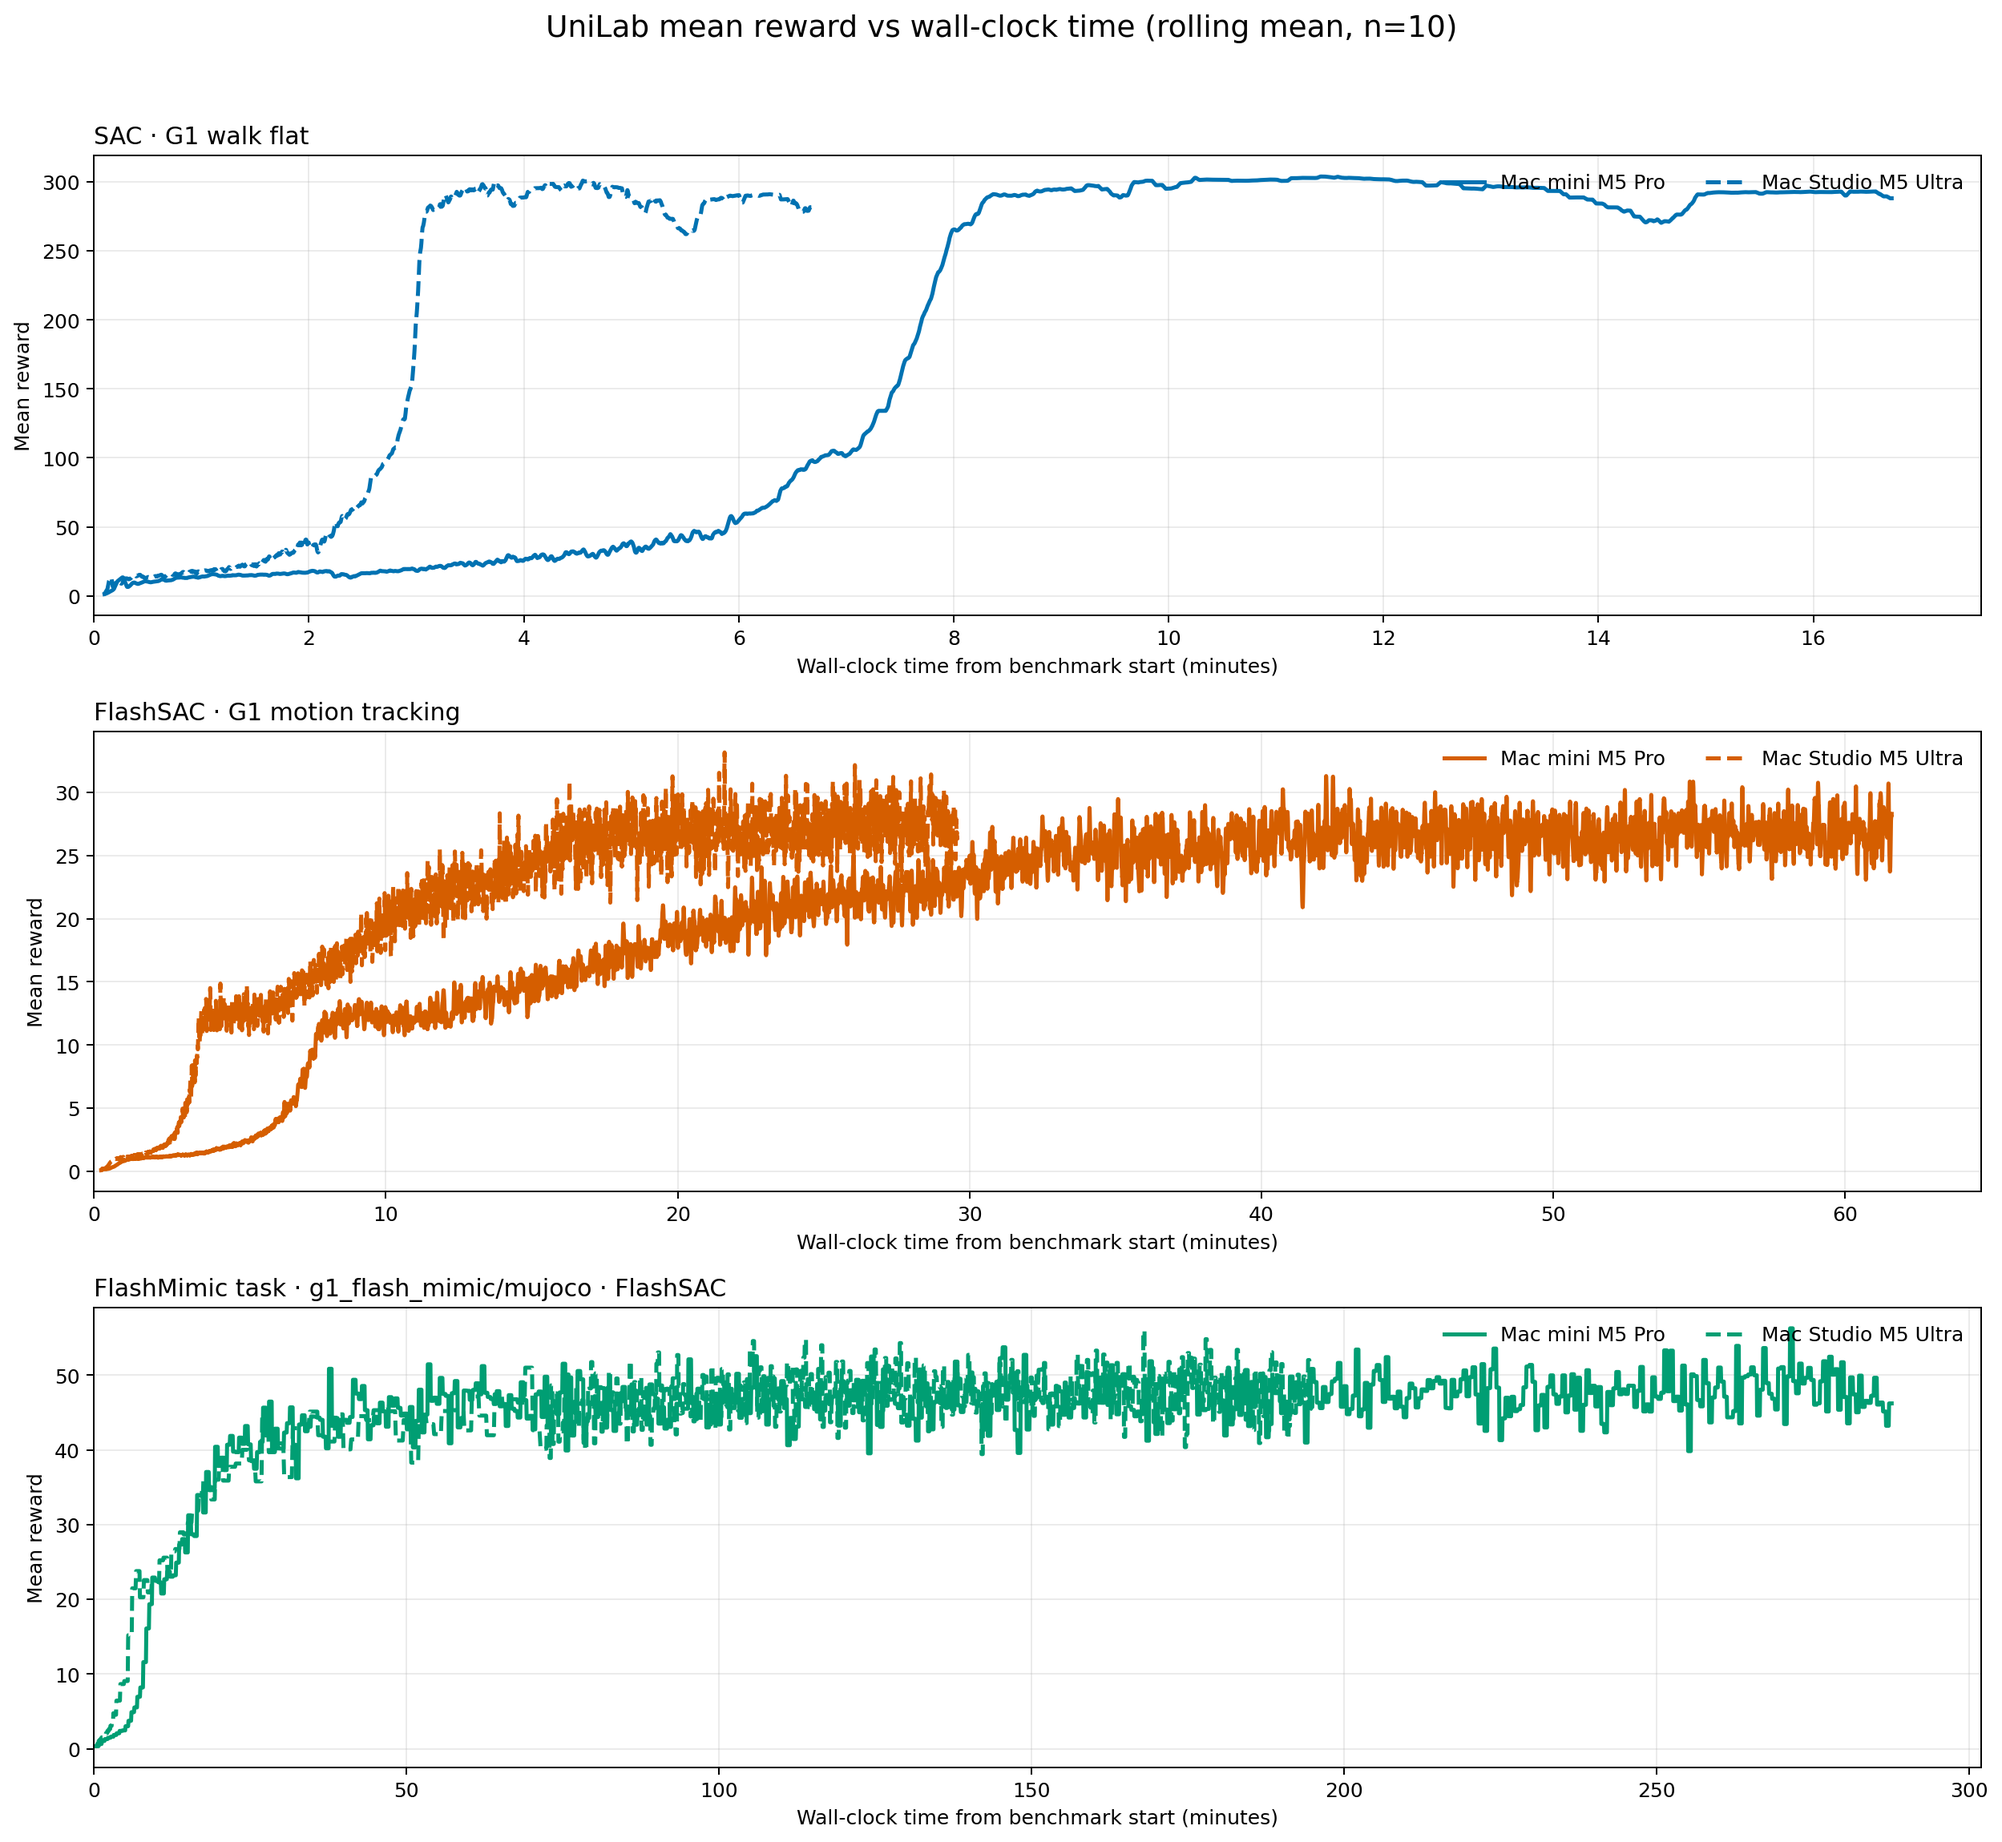
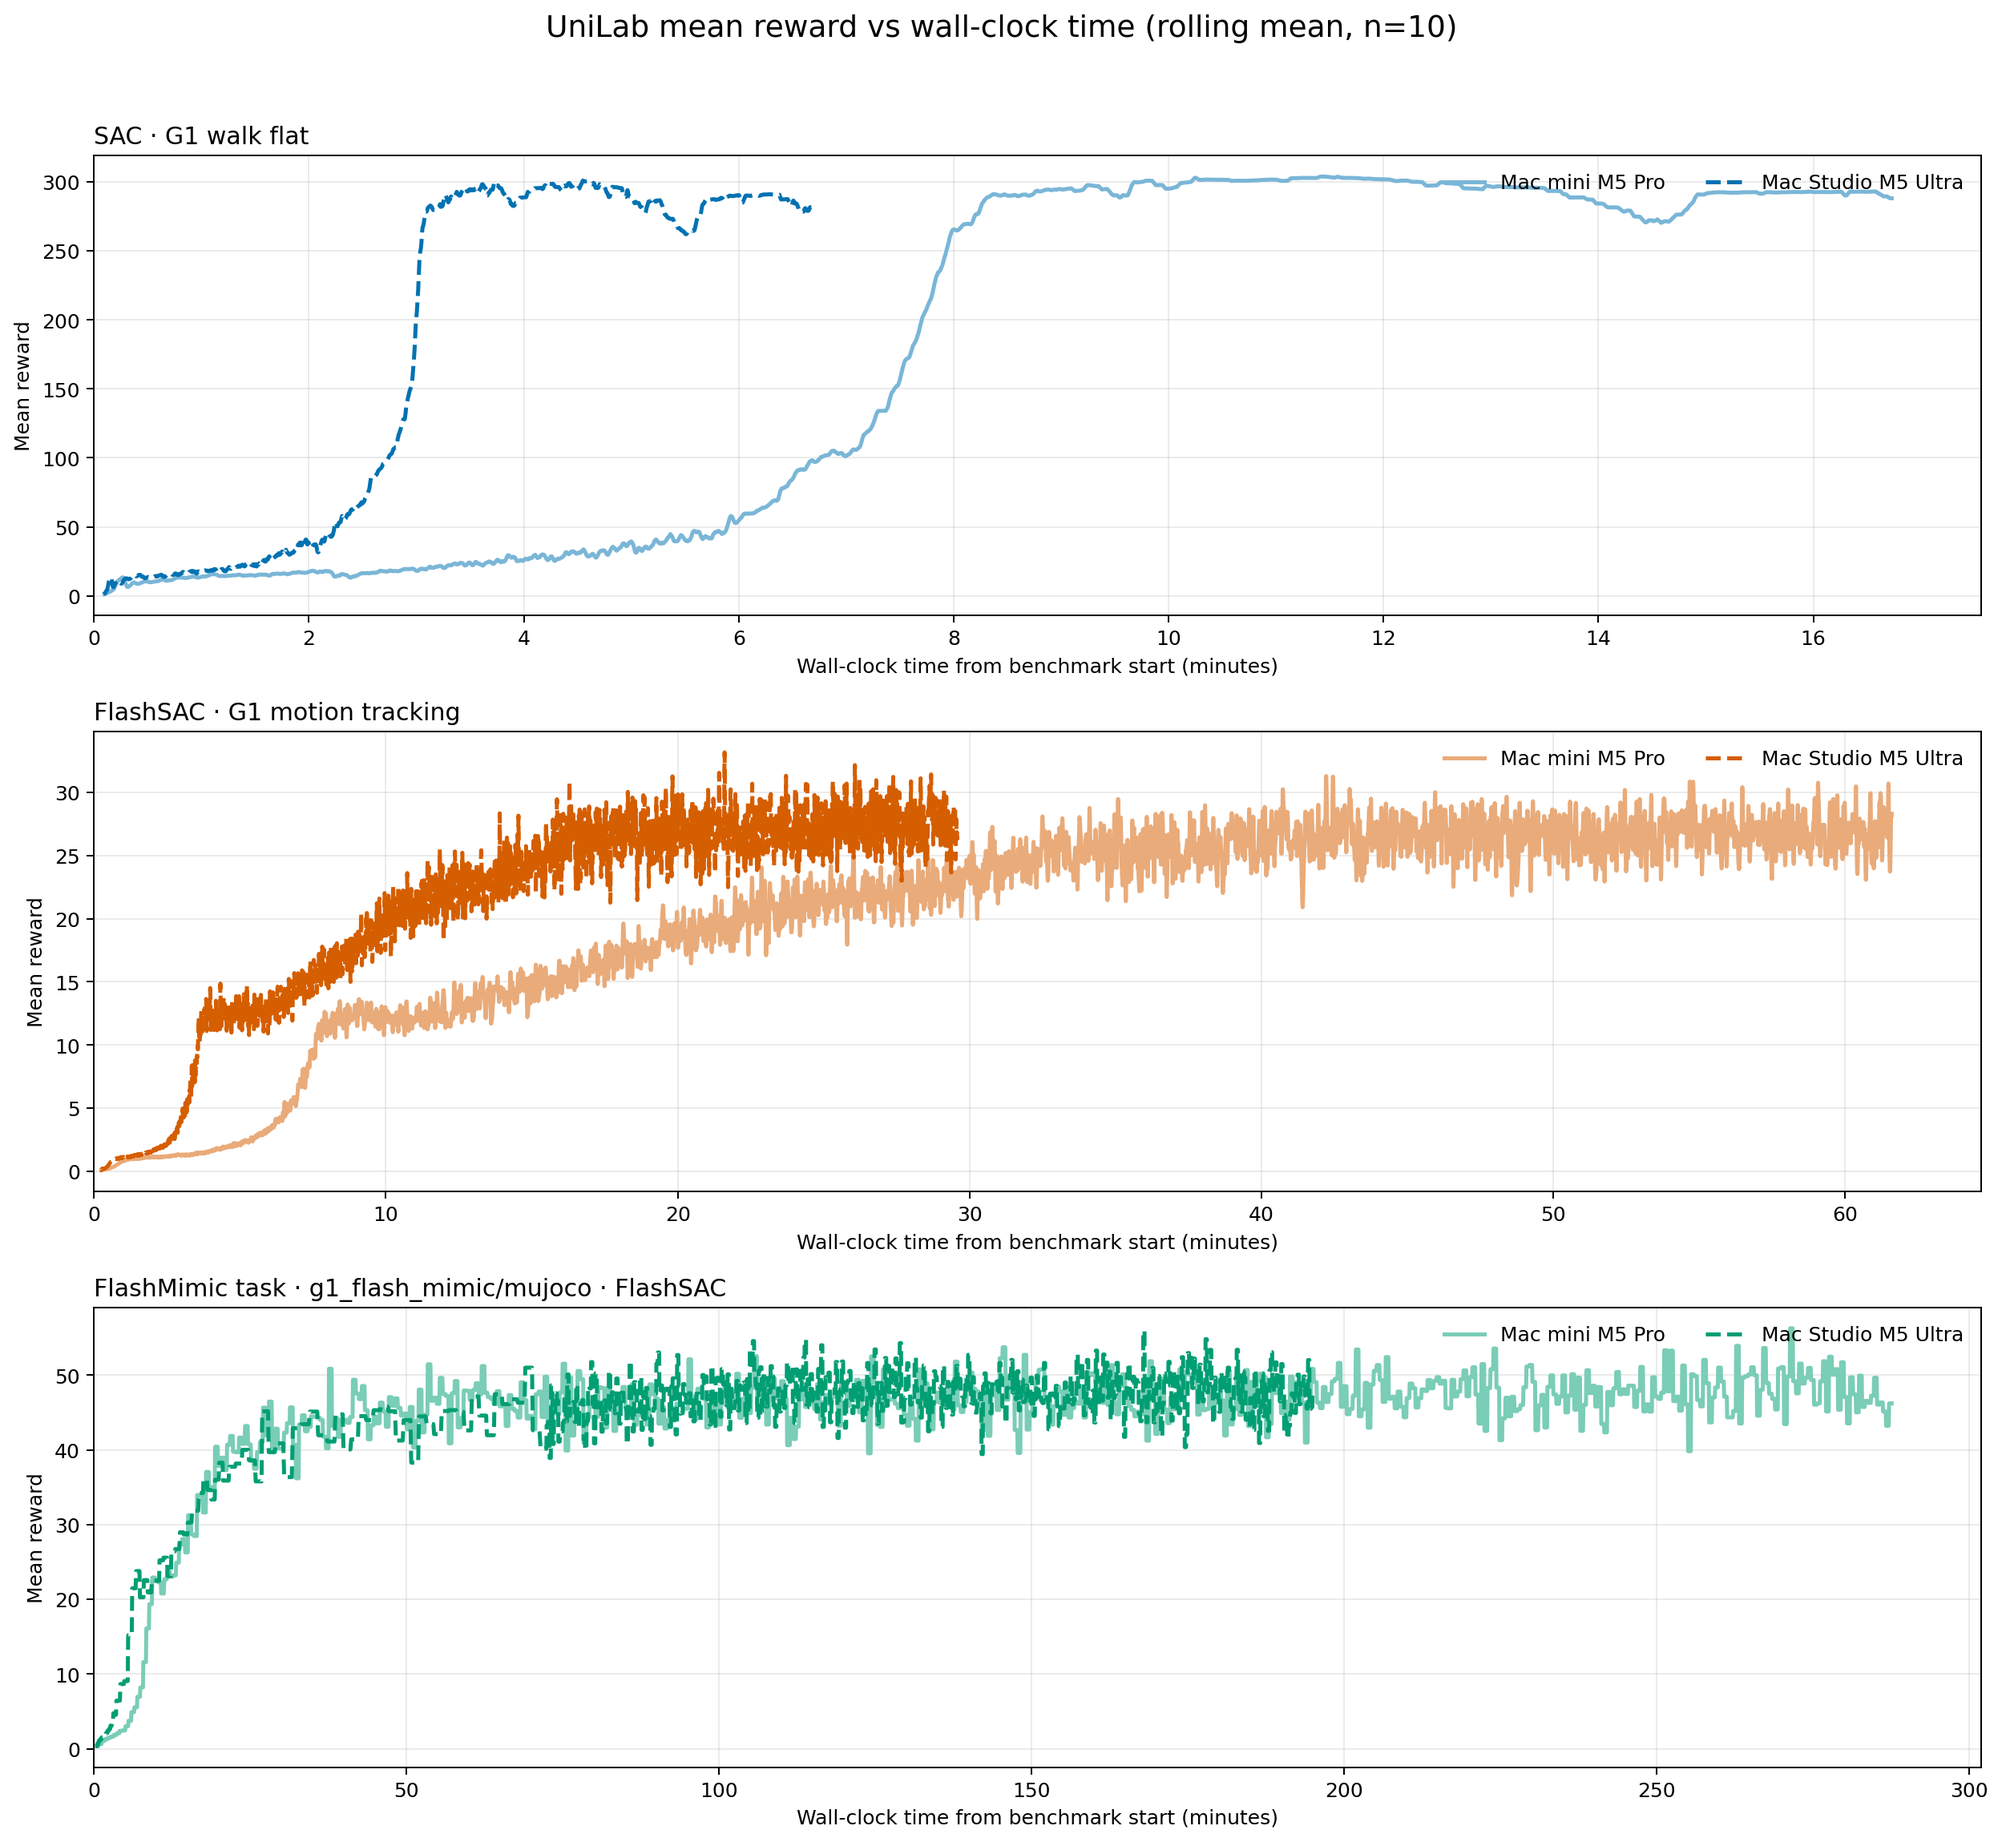
Use light and dark machine shades in reward plots

diff --git a/scripts/analyze_results.py b/scripts/analyze_results.py
@@ -12,6 +12,7 @@ from pathlib import Path
 from typing import Any
 
 import matplotlib.pyplot as plt
+from matplotlib.colors import to_hex, to_rgb
 from tensorboard.backend.event_processing import event_accumulator
 
 REWARD_TAG = "Train/mean_reward"
@@ -35,6 +36,18 @@ MACHINE_LABELS = {
     "mac-mini-m5-pro": "Mac mini M5 Pro",
     "mac-studio-m5-ultra": "Mac Studio M5 Ultra",
 }
+MACHINE_COLOR_LIGHTNESS = {
+    "mac-mini-m5-pro": 0.48,
+    "mac-studio-m5-ultra": 0.0,
+}
+
+
+def _machine_color(experiment: str, machine: str) -> str:
+    """Return a light/dark shade of the experiment's base color."""
+    amount = MACHINE_COLOR_LIGHTNESS[machine]
+    base = to_rgb(ALGO_COLORS[experiment])
+    shaded = tuple(channel + (1.0 - channel) * amount for channel in base)
+    return to_hex(shaded)
 
 
 def _find_event_file(run_dir: Path) -> Path:
@@ -326,7 +339,7 @@ def _plot(rows: list[dict[str, Any]], output: Path, smoothing: int) -> None:
             axis.plot(
                 x,
                 y,
-                color=ALGO_COLORS[experiment],
+                color=_machine_color(experiment, machine),
                 linestyle=MACHINE_STYLES[machine],
                 linewidth=2.0,
                 label=MACHINE_LABELS[machine],
